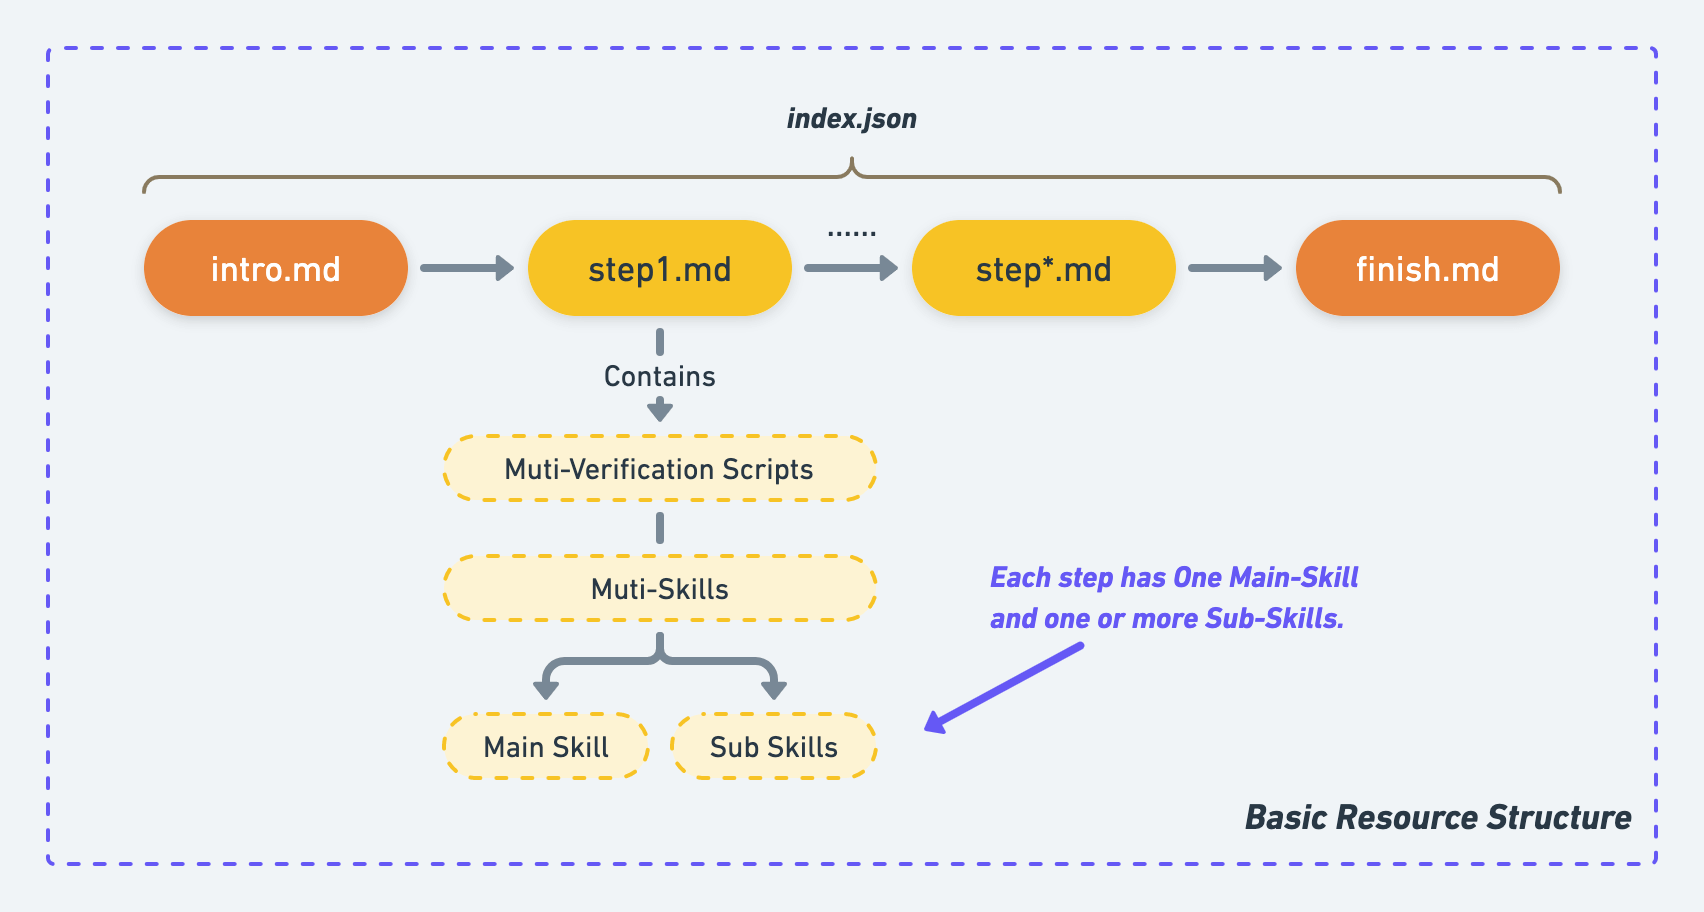
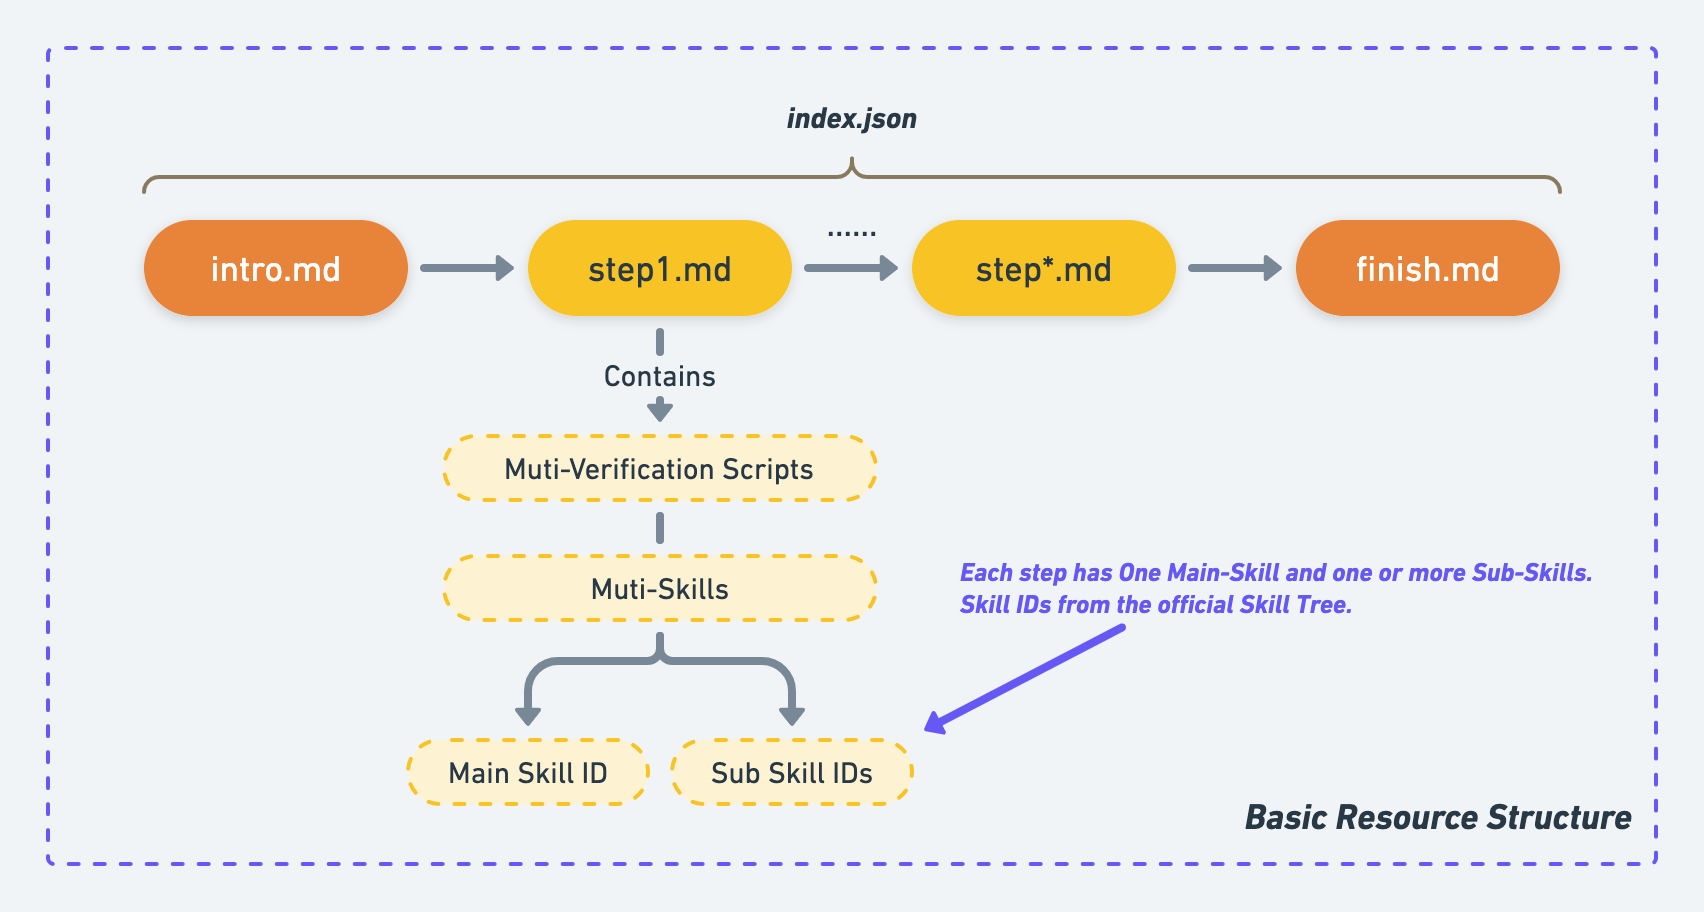
更新

Changed region(s): [[0.2177, 0.7061, 0.5599, 0.8904], [0.5599, 0.614, 0.9331, 0.7675]]

diff --git a/introduction-of-skill-tree.md b/introduction-of-skill-tree.md
@@ -6,10 +6,30 @@ Skill Tree is LabEx's resource skeleton, linking different challenges and labs.
 
 <figure><img src=".gitbook/assets/skill-tree.png" alt=""><figcaption>Skill Tree</figcaption></figure>
 
-Skill Tree is officially defined based on the technical direction, and the skills associated with each challenge and lab are derived from Skill Tree.LabEx keeps up to date with the latest Skill Tree, our content production trend.
+Skill Tree is officially defined based on the technical direction, and the skills associated with each challenge and lab are derived from Skill Tree. We will keep up to date with the latest Skill Tree.
 
 Authors can suggest to LabEx if they need to add a skill to a challenge and lab that does not exist in the Skill Tree.
 
 {% hint style="info" %}
-The latest [**Skills Tree**](https://lanqiao-courses.feishu.cn/base/bascnAjCGlkCStPvz83nmAfORUh)**.**
+The latest [**Skills Tree**](https://lanqiao-courses.feishu.cn/base/bascnAjCGlkCStPvz83nmAfORUh).
 {% endhint %}
+
+## Associated With Steps
+
+The steps of the challenge and lab are associated with the skills of the Skill Tree.
+
+<figure><img src=".gitbook/assets/basic-resource-structure.png" alt=""><figcaption><p>The Structure of Labs and Challenges</p></figcaption></figure>
+
+You need to copy the **Skill IDs** from the latest [**Skills Tree**](https://lanqiao-courses.feishu.cn/base/bascnAjCGlkCStPvz83nmAfORUh), and paste it into the `index.json`:
+
+```json
+"steps": [
+    {
+    "title": "Bananas", // The title of the step.
+    "text": "step1.md", // The markdown file of the step.
+    "verify": [],
+    "skills": ["linux/ls", "linux/cd"] // The skill ids of the step.
+}]
+```
+
+The main skill id of this step must be put in the first place.
